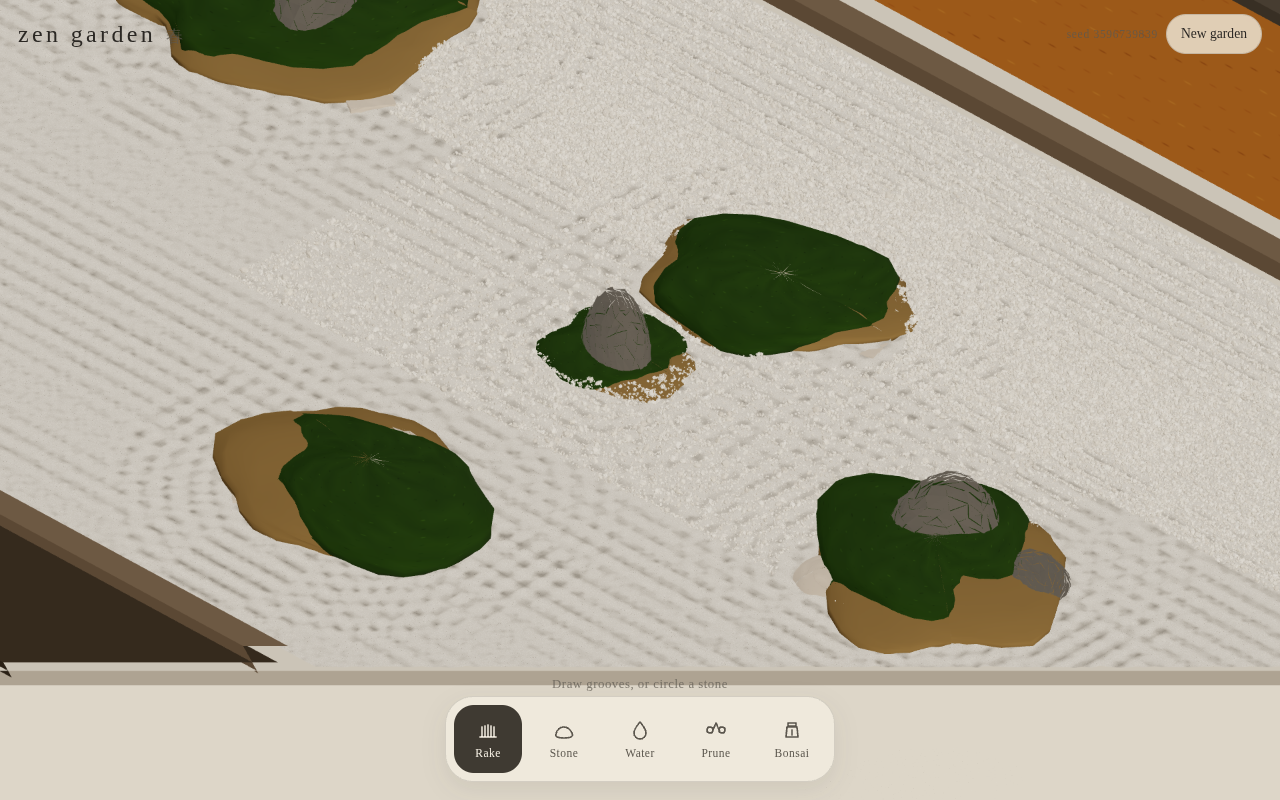
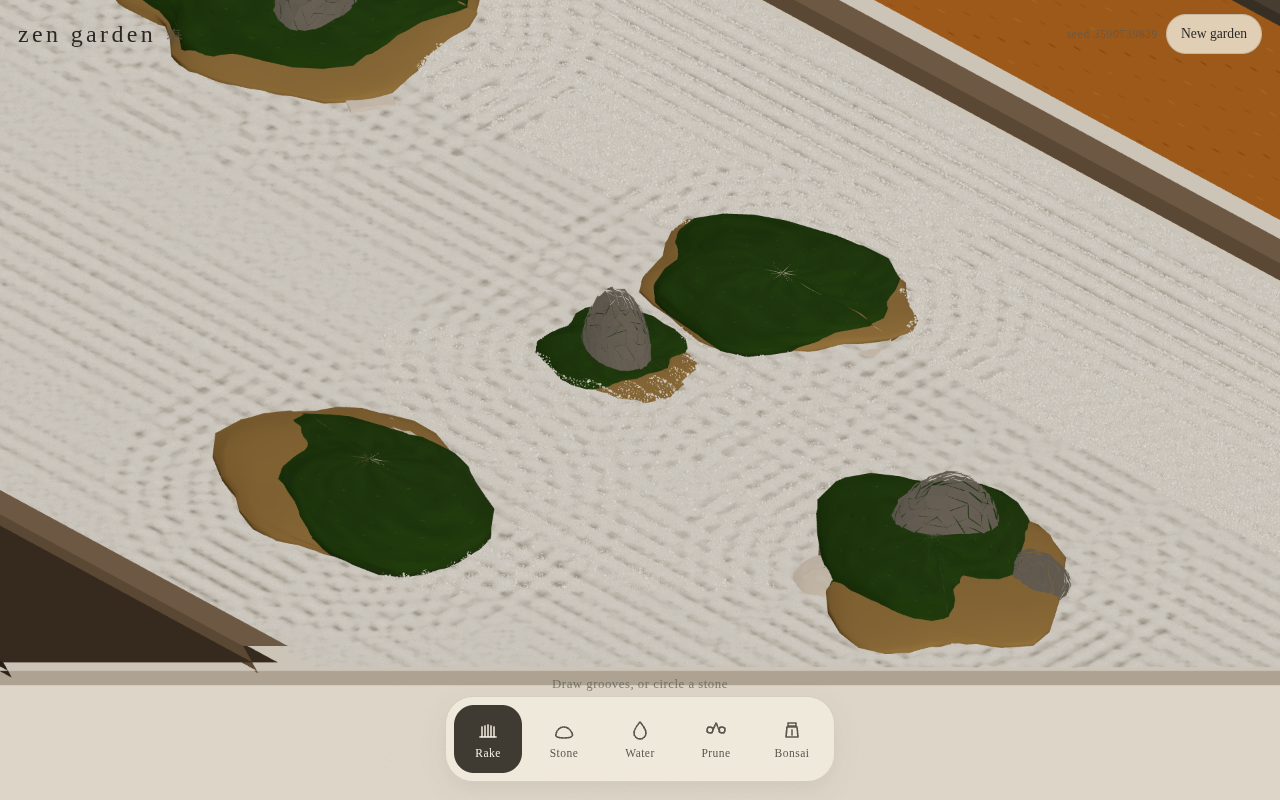
Empty furrows and stack grit on the banks
Close-ups still showed the same shards at every height. Sweep grains
out of troughs and pile extras on crests so a tine cut reads as moved
mass, not a textured rail.

diff --git a/src/grains.ts b/src/grains.ts
@@ -237,7 +237,7 @@ export class GrainBed {
       }
       const posed = pushToBank(sample, x0, z0, e);
       const stack = layer ? layer[i] : 0;
-      if (stack === 1 && posed.h < 0.01) {
+      if (stack === 1 && posed.h < 0.006) {
         dummy.position.set(posed.x, -2, posed.z);
         dummy.scale.set(0.001, 0.001, 0.001);
         dummy.updateMatrix();
@@ -252,9 +252,9 @@ export class GrainBed {
         continue;
       }
       const pile = Math.max(0, posed.h);
-      const furrow = posed.h < -0.01 ? 0.48 : 1;
-      const yJit = (hash01(i, 77) - 0.32) * 0.012;
-      const lift = sy[i] * 0.62 * furrow + (stack === 1 ? 0.01 + pile * 0.55 : 0) + pile * 0.85 + yJit;
+      const furrow = posed.h < -0.006 ? 0.34 : 1;
+      const yJit = (hash01(i, 77) - 0.28) * 0.01;
+      const lift = sy[i] * 0.7 * furrow + (stack === 1 ? 0.012 + pile * 0.7 : 0) + pile * 1.05 + yJit;
       dummy.position.set(posed.x, GARDEN.sandY + posed.h + lift, posed.z);
       dummy.rotation.set(rx[i] + posed.tiltX, ry[i], rz[i] + posed.tiltZ);
       dummy.scale.set(sx[i] * (1 + pile * 1.6) * furrow, sy[i] * (1 + pile * 2.4) * furrow, sz[i] * (1 + pile * 1.6) * furrow);
@@ -305,13 +305,13 @@ function pushToBank(sample: HeightSample, x: number, z: number, e: number): {
   const gLen = Math.hypot(gx, gz);
   let px = x;
   let pz = z;
-  if (h < avg - 0.0025 && gLen > 1e-6) {
-    const push = Math.min(0.078, (avg - h) * 1.55);
+  if (h < avg - 0.0018 && gLen > 1e-6) {
+    const push = Math.min(0.09, (avg - h) * 1.85);
     px += (gx / gLen) * push;
     pz += (gz / gLen) * push;
   }
   const hh = sample(px, pz);
-  const hide = hh < -0.04 && h < avg - 0.014;
+  const hide = h < avg - 0.008 || hh < -0.028;
   return {
     x: px,
     z: pz,

diff --git a/tests/screenshots.spec.ts b/tests/screenshots.spec.ts
@@ -9,7 +9,7 @@ test.describe("screenshots", () => {
   test.skip(!process.env.SHOTS, "set SHOTS=1 to capture PR images");
 
   test("nose-on gravel, island rings, and mobile close", async ({ page }) => {
-    test.setTimeout(300_000);
+    test.setTimeout(360_000);
     mkdirSync(outDir, { recursive: true });
     await page.setViewportSize({ width: 1280, height: 800 });
     await page.goto("/?hq=1");
